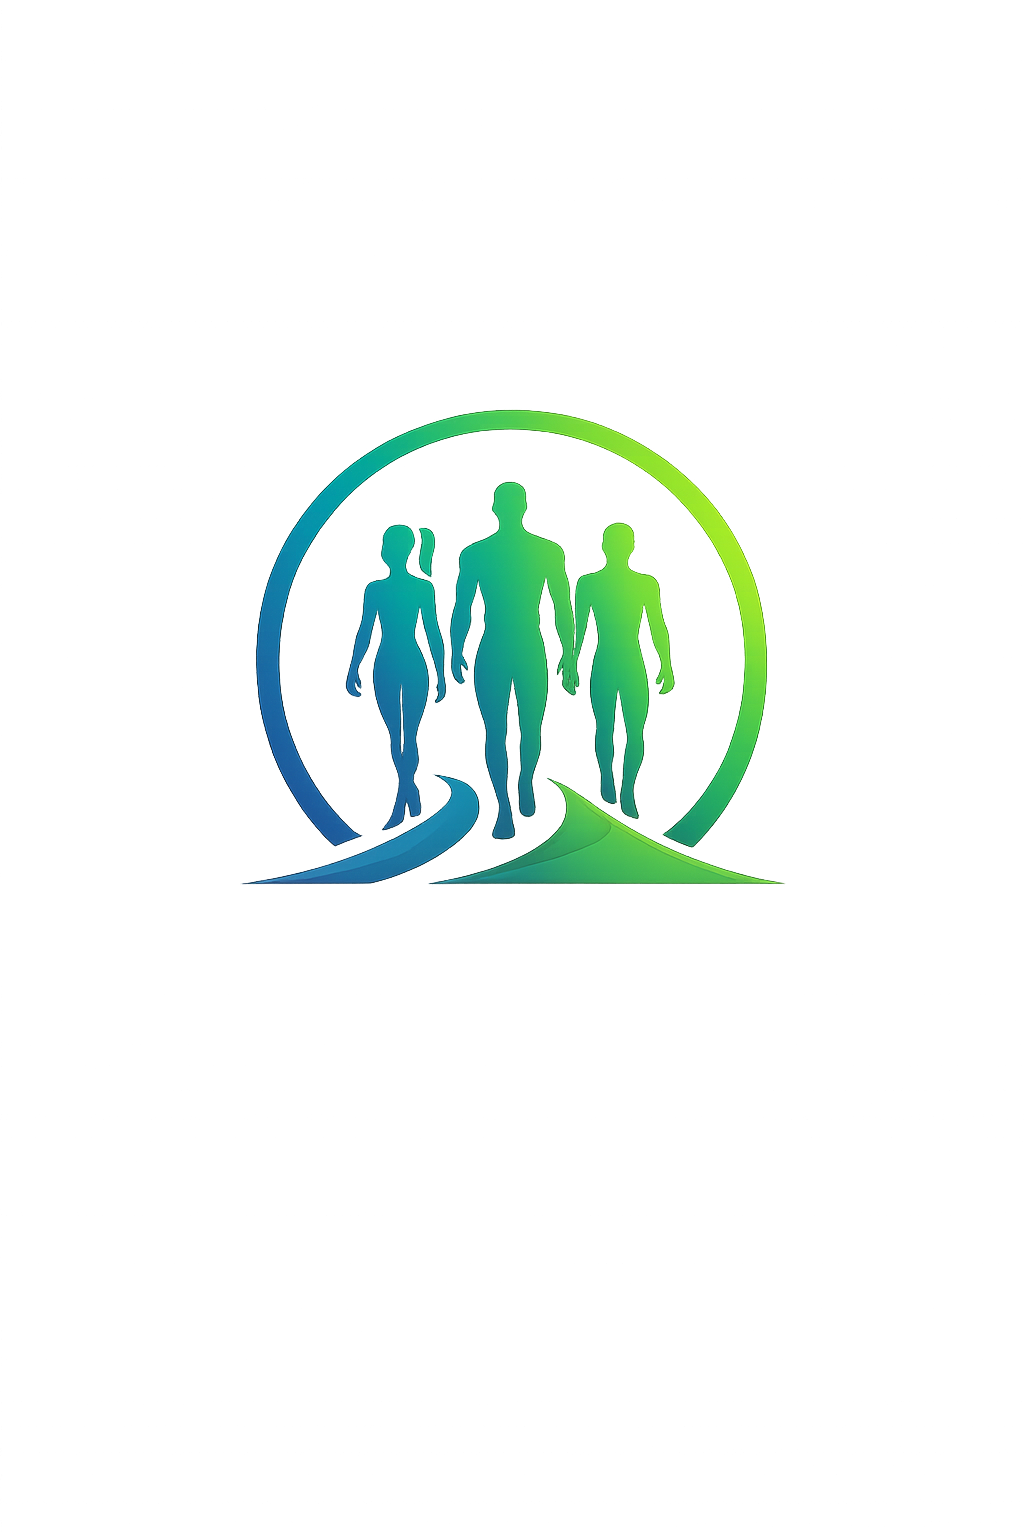
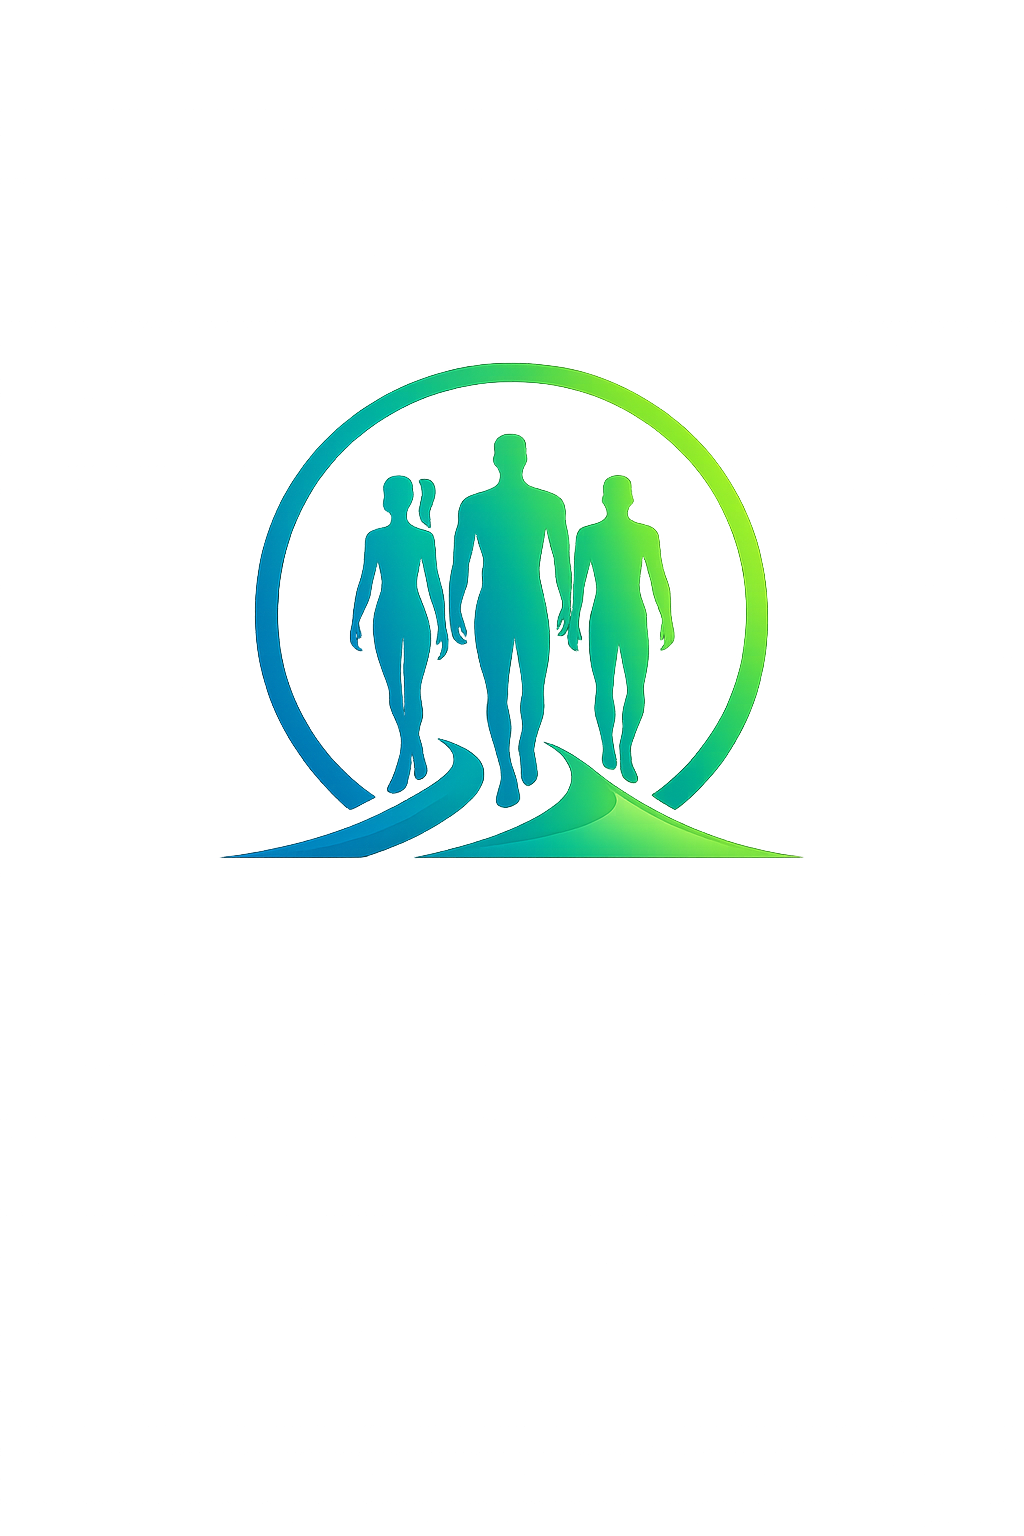
Update project files

Changed region(s): [[0.25, 0.2188, 0.75, 0.5938]]

diff --git a/components/site-logo.tsx b/components/site-logo.tsx
@@ -27,14 +27,18 @@ export function SiteLogo({
 
 	if (showImage) {
 		return (
-			<Link href="/" onClick={onClick} className={cn("inline-flex items-center", className)}>
+			<Link href="/" onClick={onClick} className={cn("inline-flex items-center shrink-0", className)}>
 				<Image
 					src={logoUrl}
 					alt={name}
-					width={200}
-					height={48}
+					width={320}
+					height={80}
+					priority
 					unoptimized
-					className={cn("h-8 w-auto max-w-[200px] object-contain object-left", imageClassName)}
+					className={cn(
+						"h-12 w-auto max-w-[220px] sm:h-14 sm:max-w-[280px] md:max-w-[320px] object-contain object-left",
+						imageClassName,
+					)}
 				/>
 			</Link>
 		);

diff --git a/app/layout.tsx b/app/layout.tsx
@@ -35,7 +35,7 @@ export async function generateMetadata(): Promise<Metadata> {
 function Header({ branding }: { branding: SiteBranding }) {
   return (
     <header className="fixed top-0 left-0 right-0 z-50 bg-black/60 backdrop-blur-md border-b border-white/10">
-      <div className="max-w-6xl mx-auto px-6 py-4 flex items-center justify-between">
+      <div className="max-w-6xl mx-auto px-6 py-3 md:py-4 flex items-center justify-between gap-4">
         <SiteLogo
           branding={branding}
           textClassName="text-xl text-white"
@@ -94,7 +94,7 @@ function Footer({ branding }: { branding: SiteBranding }) {
           <SiteLogo
             branding={branding}
             textClassName="text-2xl text-white"
-            imageClassName="max-h-10"
+            imageClassName="h-14 sm:h-16 max-w-[300px]"
           />
           <p className="text-gray-400 mt-2">
             Enhance. Optimize. Thrive.

diff --git a/components/mobile-nav.tsx b/components/mobile-nav.tsx
@@ -71,6 +71,7 @@ export function MobileNav({ branding }: { branding?: SiteBranding | null }) {
               <SiteLogo
                 branding={branding}
                 textClassName="text-xl text-white"
+                imageClassName="h-12 max-w-[240px]"
                 onClick={closeMenu}
               />
               <button